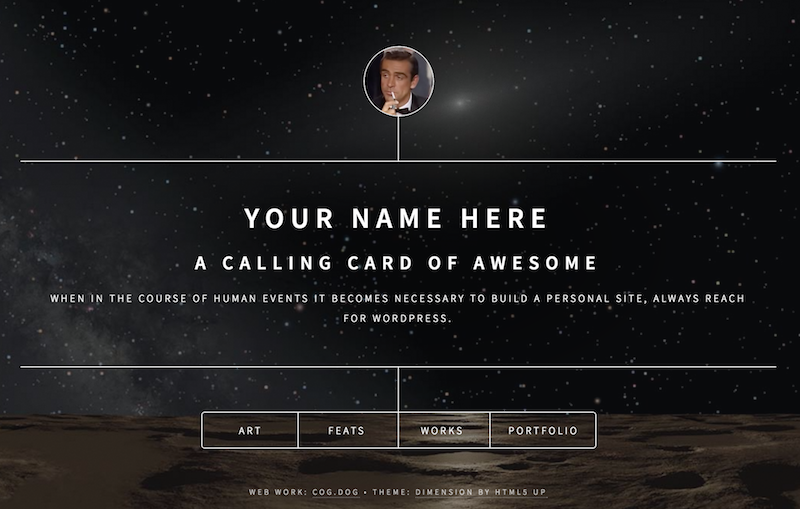
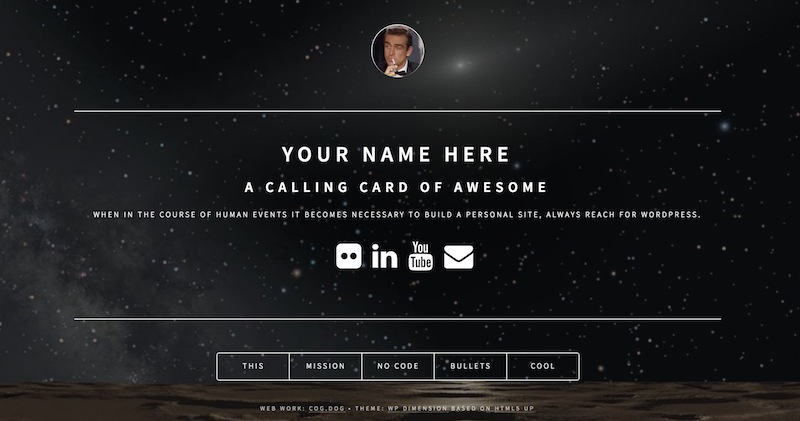
New Features

diff --git a/assets/css/main.css b/assets/css/main.css
@@ -1621,3 +1621,51 @@
    		 width: 100%;
    		 height: 100%;
 	}
+	
+/* WP Alignment */
+
+.alignleft {
+	display: inline;
+	float: left;
+	margin-right: 1.5em;
+}
+
+.alignright {
+	display: inline;
+	float: right;
+	margin-left: 1.5em;
+}
+
+.aligncenter {
+	clear: both;
+	display: block;
+	margin-left: auto;
+	margin-right: auto;
+}
+
+p.edit-this {
+    text-align: right;
+    font-size: 90%;
+    color: yellow;
+}
+
+a.post-edit-link {
+    border: none;
+}
+
+ul.dsocial {
+    list-style: none;
+}
+
+span.social-network-name {
+    display: none;
+}
+
+.menu-social {
+    display: inline;
+}
+
+li.menu-social a {
+    border: none;
+}
+

diff --git a/style.css b/style.css
@@ -3,7 +3,7 @@ Theme Name: WP-Dimension
 Theme URI: http://github.com/cogdog/wp-dimension
 Author: Alan Levine
 Author URI: http://cog.dog
-Version: 1.2
+Version: 1.1
 Description: A clean caling card site, based on HTML UP theme Dimension by HTML5 UP Version: 1.0
 License: Free for personal and commercial use under the CCA 3.0 license (html5up.net/license)
 License URI: http://www.gnu.org/licenses/gpl-2.0.html

diff --git a/functions.php b/functions.php
@@ -26,12 +26,18 @@ function dimension_setup() {
 		'header-text'            => false,
 	);
 
-add_theme_support( 'custom-header', $defaults );
+	add_theme_support( 'custom-header', $defaults );
 
 }
 
 add_action( 'after_setup_theme', 'dimension_setup' );
 
+
+add_action( 'init', 'dimension_register_my_menu' );
+
+function dimension_register_my_menu() {
+	register_nav_menu( 'dimension-social', __( 'Social Media' ) );
+}
 
 
 // add menu order to posts
@@ -107,10 +113,6 @@ function dimension_columns($columns) {
 }
 
 
-
-
-
-
 // enqueue the scripts'n styles... do it right!
 
 function dimension_scripts() {
@@ -137,8 +139,6 @@ function dimension_scripts() {
 }
 
 add_action( 'wp_enqueue_scripts', 'dimension_scripts' );
-
-
 
 
 /*** Customizer settings to allow editing of a front quote, customizing the footer, and ivon ***/
@@ -247,17 +247,25 @@ function dimension_quote_text() {
 
 /* post meta boxes 
 	https://codex.wordpress.org/Plugin_API/Action_Reference/add_meta_boxes
+	
+	One is for the optional short name for buttons, the second for building yjr
 */
 
-function dimension_add_meta_boxes( $post ){
-	add_meta_box( 'dimension_meta_box', __( 'Link Info', 'dimension' ), 'dimension_build_meta_box', 'post', 'normal', 'high' );
+function dimension_add_meta_boxes( $post ) {
+
+	add_meta_box( 'dimension_meta_box', __( 'Extra Dimension Stuff', 'dimension' ), 'dimension_build_meta_box', 'post', 'normal', 'high' );
 }
+
 add_action( 'add_meta_boxes', 'dimension_add_meta_boxes' );
 
 function dimension_build_meta_box( $post ){
 	
 	wp_nonce_field( basename( __FILE__ ), 'dimension_meta_box_nonce' );
-	
+
+
+	// retrieve the _dimension_link current value
+	$button_label = get_post_meta( $post->ID, '_button_label', true );
+		
 	// retrieve the _dimension_link current value
 	$current_link = get_post_meta( $post->ID, '_dimension_link', true );
 	
@@ -266,8 +274,15 @@ function dimension_build_meta_box( $post ){
 	if ( empty( $current_link_icon ) ) $current_link_icon = 'fa-share';
 	
 	?>
+	
 			<p>
-			<label for="dimension_link" style="font-weight:bold">Destination URL</label><br />
+			<label for="button_label" style="font-weight:bold">Front Box Label</label><br />
+			This is the short name to fit in the box links on the front of the site, if empty it will use the post title.<br />
+			<input type="text" name="button_label" value="<?php echo $button_label; ?>" style="width:100%" />
+			</p>	
+	
+			<p>
+			<label for="dimension_link" style="font-weight:bold">Go Button Destination URL</label><br />
 			<input type="text" name="dimension_link" value="<?php echo $current_link; ?>" style="width:100%" />
 			</p>
 			
@@ -295,6 +310,11 @@ function dimension_save_meta_boxes_data( $post_id ) {
 	
 	// editors only
 	if ( ! current_user_can( 'edit_post', $post_id ) ) return;
+
+	// update button label
+	if ( isset( $_REQUEST['button_label'] ) ) {
+		update_post_meta( $post_id, '_button_label', sanitize_text_field( $_POST['button_label'] ) );
+	}
 	
 	// update link meta data
 	if ( isset( $_REQUEST['dimension_link'] ) ) {
@@ -309,7 +329,6 @@ function dimension_save_meta_boxes_data( $post_id ) {
 }
 
 add_action( 'save_post', 'dimension_save_meta_boxes_data', 10, 2 );
-
 
 
 /* --- shortcodes --------------------------------------------------------------------- */

diff --git a/index.php b/index.php
@@ -24,6 +24,13 @@
 							<!-- begin front quote (if used) -->
 							<?php dimension_quote_text()?>
 							<!-- end front quote -->
+							
+							<?php 
+								if (  function_exists( 'customizer_social_icons_autoload' ) AND has_nav_menu( 'dimension-social' ) ) {
+									wp_nav_menu( array( 'theme_location' => 'dimension-social', 'menu_class' => 'dsocial' ) );
+								}
+								
+							?>
 						</div>
 					</div>
 					
@@ -48,8 +55,18 @@
 					
 						echo '<nav><ul>';
 						while ( $the_query->have_posts() ) {
+						
+							
 							$the_query->the_post();
-							echo '<li><a href="#' . sanitize_title( get_the_title() ) . '">' . get_the_title() . '</a></li>';
+							
+							$button_label =  get_post_meta( get_the_ID(), '_button_label', true );
+							
+							if ( !empty( $button_label ) ) {
+								echo '<li><a href="#' . sanitize_title( $button_label ) . '">' . $button_label . '</a></li>';	
+							} else {
+							
+								echo '<li><a href="#' . sanitize_title( get_the_title() ) . '">' . get_the_title() . '</a></li>';
+							}
 						}
 						
 						echo '</ul></nav></header>';
@@ -64,10 +81,17 @@
 						
 							while ( $the_query->have_posts() ) {
 								$the_query->the_post();
-								echo '<article id="' . sanitize_title( get_the_title() ) . '"><h2 class="major">' . get_the_title() . '</h2>';
-							
+								
+								$button_label =  get_post_meta( get_the_ID(), '_button_label', true );
 								$the_link = get_post_meta( get_the_ID(), '_dimension_link', true );
 								$fa_icon = get_post_meta( get_the_ID(), '_link_fa_icon', true );
+								
+								
+								if ( !empty( $button_label ) ) {
+									echo '<article id="' . sanitize_title( $button_label ) . '"><h2 class="major">' . get_the_title() . '</h2>';		
+								} else {
+									echo '<article id="' . sanitize_title( get_the_title() ) . '"><h2 class="major">' . get_the_title() . '</h2>';
+								}
 								
 								if ( has_post_thumbnail() ) {
 							
@@ -88,6 +112,8 @@
 									echo '<p class="align-center"><a href="' . $the_link . '" class="button icon ' . $fa_icon . '">Go</a></p>';
 								}
 							
+							
+								edit_post_link('Edit This', '<p class="edit-this"><span class="fa fa-pencil-square-o" aria-hidden="true"></span> ', '</p>');
 								echo '</article>';
 							} // while
 							

diff --git a/README.md b/README.md
@@ -4,11 +4,11 @@ A configurable Wordpress Theme version of [HTML5up Dimension Theme](https://html
 
 ![Screenshot of Theme](screenshot.png "Screenshot of Theme")
 
-The box links below open content overlays (each is a Wordpress post) with optional links to external sites:
+The box links below open content overlays (each is a Wordpress post) with optional links to external sites or to a Wordpress Page created on the same site:
 
 ![Sample Page](images/sample-page.jpg "Sample Page")
 
-Now you can also create standalone WordPress pages in case you have more info than you want to show in a front box, so it can link internally to a full page
+Now you can also create standalone WordPress pages in case you have more info than you want to show in a front box, so it can link internally to a full page.
 
 
 ![Static Page](images/dimension-page.jpg "Static Page")
@@ -27,6 +27,12 @@ Install these theme on any self hosted Wordpress site. No luck on Wordpress.com,
 You should download a ZIP file of this GitHub Repo (that's via the green **Clone or Download*" button above as a file `wp-dimension-master.zip`). 
 
 The zip can be uploaded directly to your site via Add Themes in the Wordpress dashboard. Of you run into size upload limits or just prefer going old school like me, unzip the package and ftp the entire folder into your `wp-content/themes` directory.
+
+## Updating the Theme
+
+If you have ftp/sftp access to your site (or this can be done in a cpanel file manager), simply upload the new theme files to the `wp-content/themes` directory that includes the older version theme. 
+
+For those that lack direct file upload access or maybe that idea sends shivers down the spine, upload and activate the [Easy Theme and Plugin Upgrades](https://wordpress.org/plugins/easy-theme-and-plugin-upgrades/) plugin -- this will allow you to upload a newer version of a theme as a ZIP archive.
 
 
 ## Customizing with the Customizer
@@ -58,26 +64,54 @@ Under `Dimension Logo` upload your own image. Amazing!
 
 ![](images/customizer-logo.jpg "Custom Logo")
 
+### Social Media Icons
+
+To have a customized set of icon links, install and activate the [Customizer Social Icons](https://wordpress.org/plugins/customizer-social-icons/) plugin. This allows you to create a menu of links to social media sites.
+
+Open the Customizer, and look under Menus to add a new menu. Under **Display Location** check the box for `Social Media`. Now when you look at the menus, open the entry for this new menu and click **+ Add Items**
+
+![](images/social-media-icons-menu.jpg "Social Media Icons")
+
+Open the menu under `Social Media Icons` - it will be added as  a new menu item on the list. Open up the new item, and the link to your own address in a particular site:
+
+![](images/add-linked-in.jpg "Updating info")
+
+Menu items can be re-ordered by drag and drop.
+
+Return to the main screen for the Customizer, and open the panel for **Social Icons**. Here you can select icon styles, color, size, and spacing.
+
+![](images/social-icons.jpg "Modifying Social Media Icons")
 
 ## Buttons! On the Bottom!
 
-The content for the lower row of buttons is driven by plain old posts. You can have up to 8, 4 or 6 look better.
+The content for the lower row of buttons is driven by plain old posts. You can have up to 8, but 4 or 6 look better.
 
-For each create a post. Keep the title short or... well you will see, it will look ugly.
+For each create a post. You can use long titles.
 
 A featured image os optional, but will appear on the content overlay. The order of the buttons is via the post sidebar option for... **Order**
 
 ![](images/post-side-edits.jpg "Sidebar edits")
 
-You can optional generate the link for the featured image and a bottom button to go to a designated URL. This is managed via the `Links Info` box below the post content
+Look for a few more settings in  **Extra Dimension Stuff** box below the post content. The text entered in `Front Button Label` will be what is used to diplay the link in the box on the front page. If left blank, the theme will use the text of the post title.
 
-![](images/post-links.jpg "Links Info")
+You can also enter the optional link for the featured image and a bottom button to go to a designated URL. 
 
-The `Font Awesome Icon Button` can be changed to anything available from [Font Awesome](http://fontawesome.io/icons/). Wild, eh?
+![](images/extra-dimension-stuff.jpg "Links Info")
+
+Enter under `Go Button Destintion URL` the web address the bottom button should link to. The `Font Awesome Icon Button` can be changed to anything available from [Font Awesome](http://fontawesome.io/icons/). Wild, eh?
+
+## Note on Featured images
+
+The featured images displayed for each post will be scaled down to fit a size with an aspect ratio of 480px wide and 200px high. Wordpress can never scale an uploaded image large than the original
+
+![](http://placehold.it/480x200 "Thumbnail Sizes")
+
+**The image you upload needs to be bigger than this in both dimensions** It will be scaled and cropped to the center of the image. If you do not want to experience cropping, creating your image with the same aspect ratio (it can be larger, e.g. 960x400).
 
 
 ## Features / History
 
+* v1.3 (Aug 21, 2017)  Integration of Social Media Icons for the WordPress Customizer plugin to provide a front page display of icons / links for social media sites, new post meta data field option to store an optional short name for the button display, CSS updates for 'aligncenter, alignleft, alignright classes, edit links added to post display.
 * v1.2 (Jun 19, 2017)  Added a page template to create longer content pieces
 * v1.1 (May 20, 2017) Added shortcodes for link buttons, display and show  order in the posts view of  Wordpress Editor
 * v1.0 (Feb 19, 2017) First release http://cogdogblog.com/2017/02/new-dimension/
